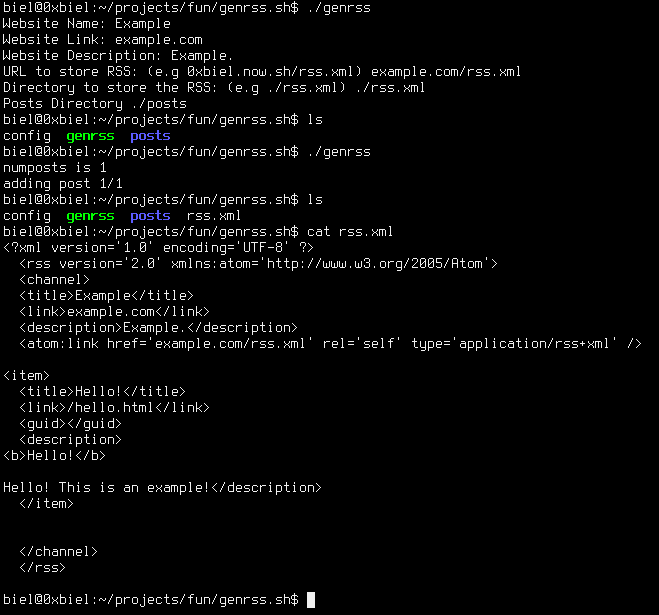
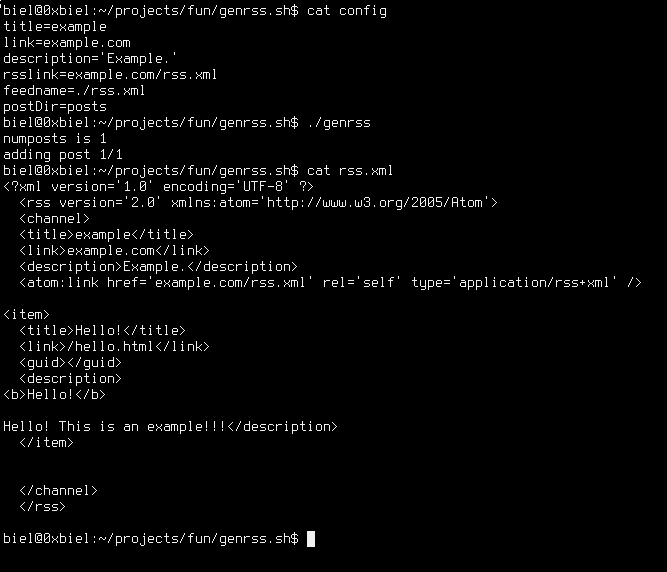
Update README, add config file template, update script and demo.

diff --git a/README.md b/README.md
@@ -1,6 +1,6 @@
 # genrss.sh
 
-RSS Feed generator written in POSIX Shell
+RSS Feed generator written in Bash.
 
 ![](demo.png)
 
